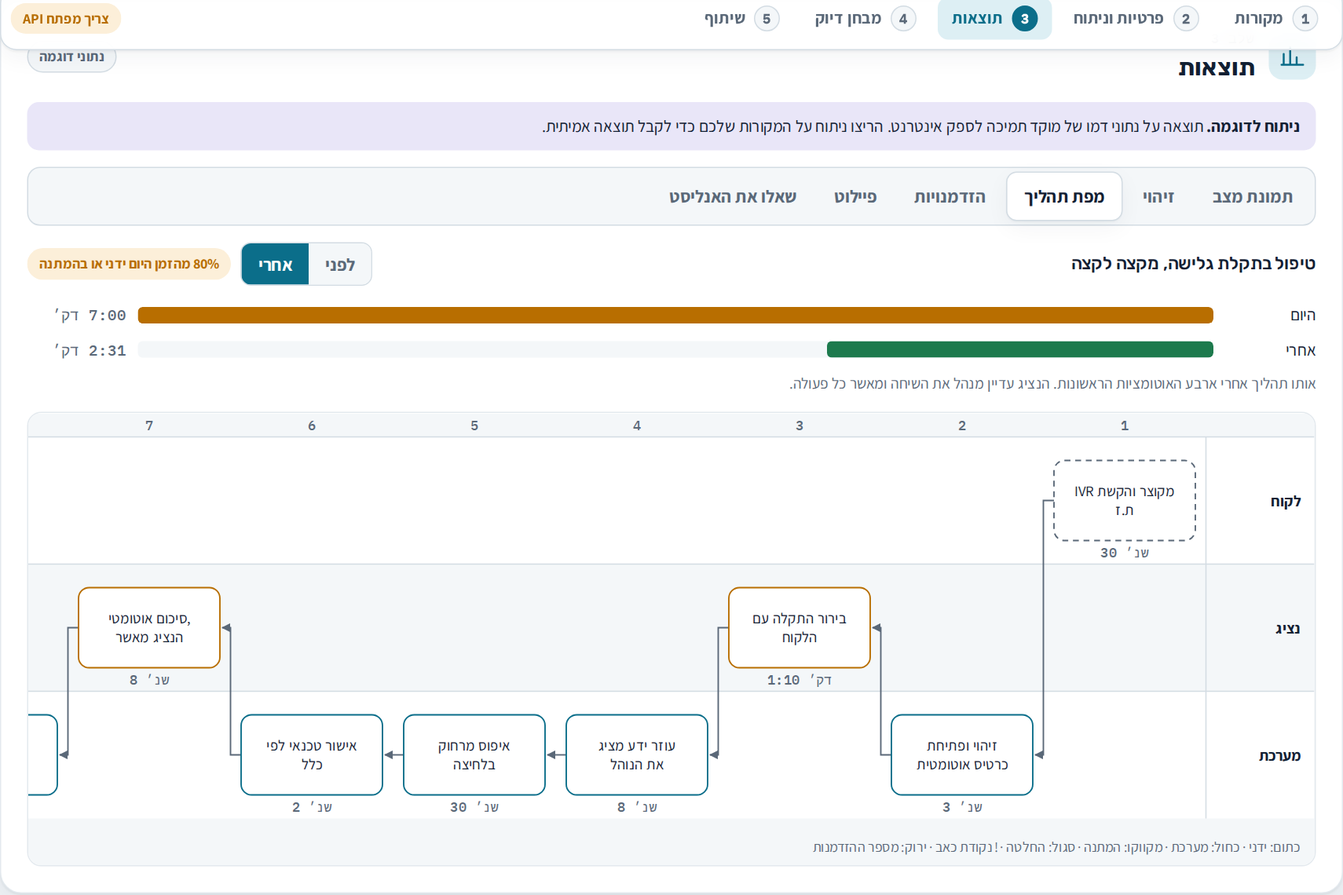
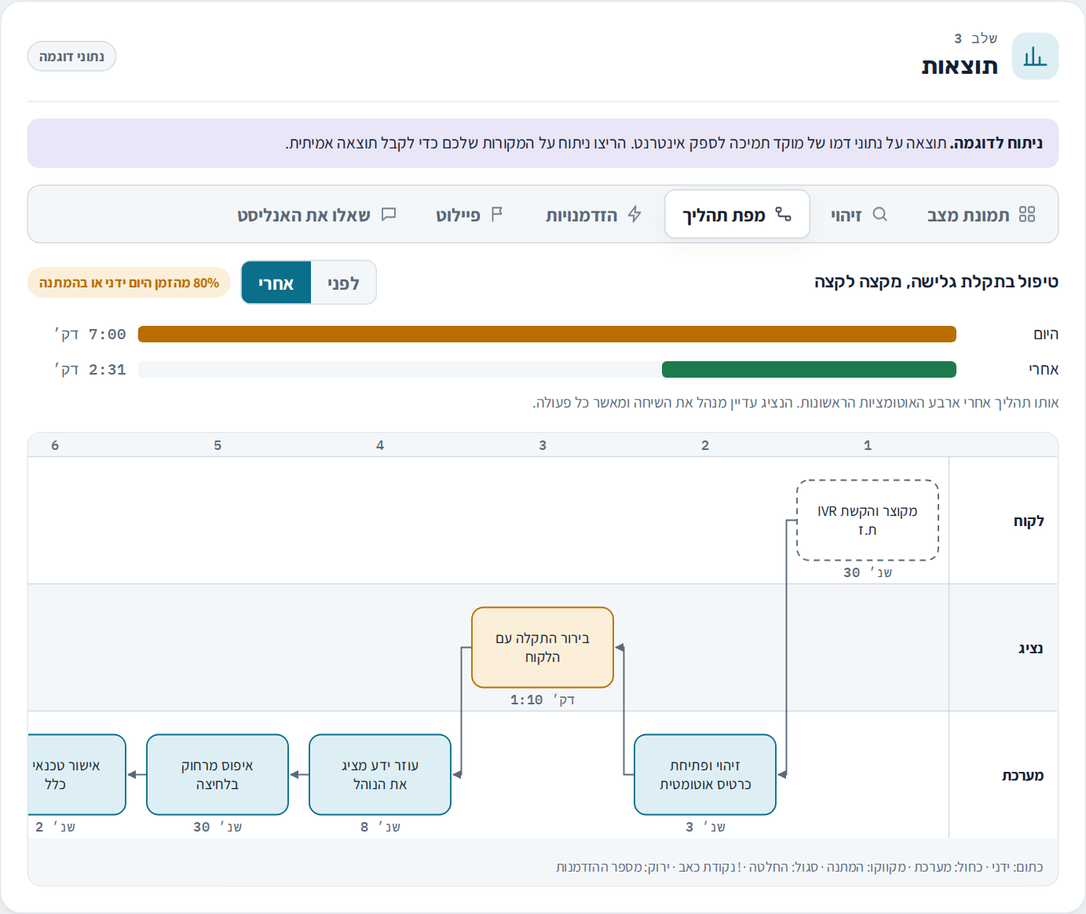
עיצוב מקצועי: מבנה אפליקציה עם סרגל צד, לוגו, אייקונים, הודעות קופצות ומפת תהליך צבעונית
Claude-Session: https://claude.ai/code/session_01NoNZGB2z2MiKGwQLPAJggP

diff --git a/index.html b/index.html
@@ -4,7 +4,7 @@
 <meta charset="utf-8">
 <meta name="viewport" content="width=device-width,initial-scale=1,viewport-fit=cover">
 <meta name="description" content="רנטגן למוקד: אבחון תהליכים ואיתור אוטומציות במוקדי שירות בעזרת Claude">
-<style>[hidden]{display:none!important}body{margin:0}img{max-width:100%}</style>
+<style>[hidden]{display:none!important}html,body{margin:0;height:100%}img{max-width:100%}</style>
 </head>
 <body>
 <title>רנטגן למוקד</title>
@@ -92,7 +92,7 @@ textarea{min-height:130px;resize:vertical;line-height:1.5}
 .msg.err{background:var(--crit-soft);border-color:transparent}
 .msg.ok{background:var(--good-soft);border-color:transparent}
 
-.profile{display:grid;grid-template-columns:1.4fr repeat(4,1fr);gap:10px}
+.profile{display:grid;grid-template-columns:1.9fr repeat(4,1fr);gap:10px}
 .src-tabs{display:flex;gap:4px;flex-wrap:wrap;border-bottom:1px solid var(--line)}
 .src-tabs button{border:0;background:none;padding:8px 12px;font-weight:700;color:var(--muted);cursor:pointer;border-bottom:2px solid transparent;margin-bottom:-1px}
 .src-tabs button[aria-selected="true"]{color:var(--accent);border-bottom-color:var(--accent)}
@@ -233,7 +233,7 @@ footer{font-size:12.5px;color:var(--muted);text-align:center;display:grid;gap:4p
   linear-gradient(90deg,rgba(255,255,255,.045) 1px,transparent 1px) 0 0/28px 28px}
 .hero .film{color:#7FD3E6}
 .hero .film i{background:repeating-linear-gradient(90deg,#7FD3E6 0 3px,transparent 3px 6px)}
-.hero h1{font-size:46px;line-height:1.05;margin-top:10px;color:#FFFFFF;letter-spacing:-.02em}
+.hero h1{font-size:40px;line-height:1.05;margin-top:10px;color:#FFFFFF;letter-spacing:-.02em}
 .hero h1 span{color:#7FD3E6}
 .hero p{color:#B6C6D5;max-width:60ch;margin-top:12px;font-size:15.5px}
 .hero .trust{margin-top:16px}
@@ -291,13 +291,74 @@ footer{font-size:12.5px;color:var(--muted);text-align:center;display:grid;gap:4p
 .cat-ic svg{width:14px;height:14px}
 @media (max-width:980px){.hero{grid-template-columns:1fr;padding:26px}.hero h1{font-size:36px}}
 @media (max-width:680px){.hero{padding:22px 18px;border-radius:16px}.hero h1{font-size:30px}.ro-main b{font-size:32px}.panel{padding:16px}}
+
+/* ===== v4 app shell ===== */
+body{font-size:15.5px;-webkit-font-smoothing:antialiased}
+.app{display:grid;grid-template-columns:262px minmax(0,1fr);min-height:100%}
+.side{position:sticky;top:0;height:100vh;height:100dvh;display:flex;flex-direction:column;gap:18px;padding:22px 16px calc(18px + env(safe-area-inset-bottom,0px));background:var(--surface);border-inline-start:1px solid var(--line-2);border-inline-end:1px solid var(--line-2);overflow-y:auto}
+.logo{display:flex;align-items:center;gap:10px;text-decoration:none;color:var(--ink);padding:0 6px}
+.logo .mark{width:38px;height:38px;border-radius:11px;display:grid;place-items:center;background:linear-gradient(145deg,#0B6E8A,#0A1520);box-shadow:inset 0 0 0 1px rgba(255,255,255,.12)}
+.logo b{font-family:"Rubik",sans-serif;font-size:18px;display:block;line-height:1.1}
+.logo small{font-size:11.5px;color:var(--muted);display:block}
+.side .navlabel{font-size:11px;font-weight:700;letter-spacing:.08em;color:var(--muted);padding:0 10px}
+.side nav{display:grid;gap:2px}
+.side nav a{display:flex;align-items:center;gap:10px;padding:9px 10px;border-radius:10px;text-decoration:none;color:var(--muted);font-weight:700;font-size:14.5px;position:relative}
+.side nav a svg{width:19px;height:19px;flex:none}
+.side nav a .n{margin-inline-start:auto;font-family:"IBM Plex Mono",monospace;font-size:11px;font-weight:500;opacity:.7}
+.side nav a:hover{background:var(--surface-2);color:var(--ink)}
+.side nav a.on{background:var(--accent-soft);color:var(--accent)}
+.side .card{margin-top:auto;border:1px solid var(--line-2);border-radius:12px;padding:12px;display:grid;gap:8px;background:var(--surface-2);font-size:12.5px;color:var(--muted)}
+.side .card b{color:var(--ink);font-size:13px}
+.side .card .chip{justify-self:start}
+.main{min-width:0}
+.main .wrap{max-width:1120px;padding-inline:28px;padding-block:24px 64px}
+.rtabs button{display:inline-flex;align-items:center;gap:7px}
+.rtabs button svg{width:16px;height:16px;opacity:.85}
+.toasts{position:fixed;bottom:calc(20px + env(safe-area-inset-bottom,0px));left:20px;z-index:50;display:grid;gap:8px;pointer-events:none}
+.toast{pointer-events:auto;display:flex;align-items:center;gap:10px;min-width:220px;max-width:360px;padding:11px 14px;border-radius:12px;background:#0F1B28;color:#E8F1F8;font-size:14px;box-shadow:0 10px 30px rgba(0,0,0,.25);animation:tin .25s ease-out}
+.toast i{width:8px;height:8px;border-radius:50%;background:#5CC990;flex:none}
+.toast.err i{background:#FF7C6D}
+@keyframes tin{from{transform:translateY(8px);opacity:0}to{transform:none;opacity:1}}
+@media (prefers-reduced-motion: reduce){.toast{animation:none}}
+.opp .roi{height:5px;border-radius:999px;background:var(--surface-2);overflow:hidden;margin-top:6px;width:120px}
+.opp .roi i{display:block;height:100%;background:var(--good);border-radius:999px}
+.panel{box-shadow:0 1px 2px rgba(18,32,51,.04),0 10px 30px -12px rgba(18,32,51,.10)}
+.panel > .phead{padding-bottom:14px;border-bottom:1px solid var(--line-2)}
+.kpi{background:linear-gradient(180deg,var(--surface),var(--surface-2))}
+@media (max-width:980px){
+  .app{grid-template-columns:1fr}
+  .side{position:sticky;top:0;z-index:30;height:auto;flex-direction:row;align-items:center;gap:10px;padding:10px 14px;padding-top:calc(10px + env(safe-area-inset-top,0px));border:0;border-bottom:1px solid var(--line-2);overflow-x:auto;scrollbar-width:none;background:color-mix(in srgb,var(--surface) 92%,transparent);backdrop-filter:blur(10px)}
+  .side::-webkit-scrollbar{display:none}
+  .side .navlabel,.side .card,.logo small{display:none}
+  .side nav{display:flex;gap:4px}
+  .side nav a{white-space:nowrap;padding:7px 10px;font-size:13.5px}
+  .side nav a .n{display:none}
+  .logo .mark{width:32px;height:32px}
+  .logo b{font-size:15px;white-space:nowrap}
+  .main .wrap{padding-inline:16px}
+  .toasts{left:12px;right:12px}
+}
 </style>
 
+<div class="app">
+<aside class="side" aria-label="ניווט">
+  <a class="logo" href="#top"><span class="mark"><svg width="22" height="22" viewBox="0 0 24 24" fill="none" stroke="#E8F1F8" stroke-width="1.8" stroke-linecap="round" aria-hidden="true"><path d="M5 13v-1a7 7 0 0 1 14 0v1"/><rect x="3.5" y="13" width="4" height="6" rx="1.5"/><rect x="16.5" y="13" width="4" height="6" rx="1.5"/><path d="M8 9.5h8" stroke="#7FD3E6" stroke-width="2.2"/></svg></span><span><b>רנטגן למוקד</b><small>Call Center X-Ray</small></span></a>
+  <span class="navlabel">תהליך העבודה</span>
+  <nav aria-label="שלבים">
+    <a href="#s-sources"><svg viewBox="0 0 24 24" fill="none" stroke="currentColor" stroke-width="1.8" stroke-linecap="round" stroke-linejoin="round" aria-hidden="true"><path d="M4 5h16v14H4z"/><path d="M8 9h8M8 13h8M8 17h5"/></svg>מקורות<span class="n">01</span></a>
+    <a href="#s-run"><svg viewBox="0 0 24 24" fill="none" stroke="currentColor" stroke-width="1.8" stroke-linecap="round" stroke-linejoin="round" aria-hidden="true"><path d="M12 3l8 3v6c0 5-3.5 8-8 9-4.5-1-8-4-8-9V6z"/><path d="M9 12l2 2 4-4"/></svg>פרטיות וניתוח<span class="n">02</span></a>
+    <a href="#s-results" class="on"><svg viewBox="0 0 24 24" fill="none" stroke="currentColor" stroke-width="1.8" stroke-linecap="round" stroke-linejoin="round" aria-hidden="true"><path d="M4 20V10M10 20V4M16 20v-7M22 20H2"/></svg>תוצאות<span class="n">03</span></a>
+    <a href="#s-eval"><svg viewBox="0 0 24 24" fill="none" stroke="currentColor" stroke-width="1.8" stroke-linecap="round" stroke-linejoin="round" aria-hidden="true"><circle cx="12" cy="12" r="8"/><circle cx="12" cy="12" r="4"/><circle cx="12" cy="12" r="1"/></svg>מבחן דיוק<span class="n">04</span></a>
+    <a href="#s-export"><svg viewBox="0 0 24 24" fill="none" stroke="currentColor" stroke-width="1.8" stroke-linecap="round" stroke-linejoin="round" aria-hidden="true"><path d="M12 3v12M7 10l5 5 5-5"/><path d="M4 17v3h16v-3"/></svg>שיתוף<span class="n">05</span></a>
+  </nav>
+  <div class="card"><b>מצב המערכת</b><span class="chip" id="ai-status">בודק חיבור…</span><span>פרטים מזהים מוסתרים בדפדפן לפני כל שליחה.</span></div>
+</aside>
+<main class="main" id="top">
 <div class="wrap">
   <header class="hero">
     <div>
       <span class="film"><i></i>אבחון תהליכים מבוסס AI · מוקדי שירות ומכירות</span>
-      <h1>רנטגן <span>למוקד</span></h1>
+      <h1>מה באמת קורה בשיחות,<br><span>ואיפה AI יחסוך הכי הרבה</span></h1>
       <p>מכניסים תמלולי שיחות, נהלים והערות מישיבה ליד נציגים. הכלי מסתיר פרטים מזהים, Claude משרטט את התהליך כפי שהוא קורה בפועל, וכל ממצא מגיע עם ציטוט שנבדק מול המקור. בסוף: איפה אוטומציה ו-AI יחסכו הכי הרבה, בשקלים, ותוכנית פיילוט.</p>
       <div class="trust" aria-label="עקרונות">
         <span class="chip">פרטים מזהים מוסתרים לפני שליחה</span>
@@ -307,15 +368,7 @@ footer{font-size:12.5px;color:var(--muted);text-align:center;display:grid;gap:4p
     </div>
     <div class="readout" aria-live="polite" id="readout"></div>
   </header>
-  <nav class="navbar" aria-label="שלבים">
-    <a href="#s-sources"><i>1</i>מקורות</a>
-    <a href="#s-run"><i>2</i>פרטיות וניתוח</a>
-    <a href="#s-results" class="on"><i>3</i>תוצאות</a>
-    <a href="#s-eval"><i>4</i>מבחן דיוק</a>
-    <a href="#s-export"><i>5</i>שיתוף</a>
-    <span class="spacer"></span>
-    <span class="chip" id="ai-status">בודק חיבור…</span>
-  </nav>
+
 
   <!-- 1. SOURCES -->
   <section class="panel" id="s-sources" aria-labelledby="h-src">
@@ -432,12 +485,12 @@ footer{font-size:12.5px;color:var(--muted);text-align:center;display:grid;gap:4p
     <div class="phead"><div class="shead"><span class="ico" aria-hidden="true"><svg viewBox="0 0 24 24" fill="none" stroke="currentColor" stroke-width="1.8" stroke-linecap="round" stroke-linejoin="round"><path d="M4 20V10M10 20V4M16 20v-7M22 20H2"/></svg></span><div><span class="num">שלב 3</span><h2 id="h-res">תוצאות</h2></div></div><span class="chip" id="res-when"></span></div>
     <div class="banner" id="demo-banner"><span><b>ניתוח לדוגמה.</b> תוצאה על נתוני דמו של מוקד תמיכה לספק אינטרנט. הריצו ניתוח על המקורות שלכם כדי לקבל תוצאה אמיתית.</span></div>
     <div class="rtabs" role="tablist" aria-label="תוצאות">
-      <button role="tab" data-r="sum" aria-selected="true">תמונת מצב</button>
-      <button role="tab" data-r="det" aria-selected="false">זיהוי</button>
-      <button role="tab" data-r="proc" aria-selected="false">מפת תהליך</button>
-      <button role="tab" data-r="opp" aria-selected="false">הזדמנויות</button>
-      <button role="tab" data-r="pilot" aria-selected="false">פיילוט</button>
-      <button role="tab" data-r="chat" aria-selected="false">שאלו את האנליסט</button>
+      <button role="tab" data-r="sum" aria-selected="true"><svg viewBox="0 0 24 24" fill="none" stroke="currentColor" stroke-width="1.8" stroke-linecap="round" stroke-linejoin="round" aria-hidden="true"><rect x="3" y="3" width="7" height="7" rx="1.5"/><rect x="14" y="3" width="7" height="7" rx="1.5"/><rect x="3" y="14" width="7" height="7" rx="1.5"/><rect x="14" y="14" width="7" height="7" rx="1.5"/></svg>תמונת מצב</button>
+      <button role="tab" data-r="det" aria-selected="false"><svg viewBox="0 0 24 24" fill="none" stroke="currentColor" stroke-width="1.8" stroke-linecap="round" stroke-linejoin="round" aria-hidden="true"><circle cx="11" cy="11" r="7"/><path d="M20 20l-4-4"/></svg>זיהוי</button>
+      <button role="tab" data-r="proc" aria-selected="false"><svg viewBox="0 0 24 24" fill="none" stroke="currentColor" stroke-width="1.8" stroke-linecap="round" stroke-linejoin="round" aria-hidden="true"><rect x="3" y="4" width="6" height="5" rx="1.5"/><rect x="15" y="15" width="6" height="5" rx="1.5"/><path d="M6 9v4a2 2 0 0 0 2 2h7"/></svg>מפת תהליך</button>
+      <button role="tab" data-r="opp" aria-selected="false"><svg viewBox="0 0 24 24" fill="none" stroke="currentColor" stroke-width="1.8" stroke-linecap="round" stroke-linejoin="round" aria-hidden="true"><path d="M13 2L4 14h7l-1 8 9-12h-7z"/></svg>הזדמנויות</button>
+      <button role="tab" data-r="pilot" aria-selected="false"><svg viewBox="0 0 24 24" fill="none" stroke="currentColor" stroke-width="1.8" stroke-linecap="round" stroke-linejoin="round" aria-hidden="true"><path d="M5 21V4M5 4h11l-2 4 2 4H5"/></svg>פיילוט</button>
+      <button role="tab" data-r="chat" aria-selected="false"><svg viewBox="0 0 24 24" fill="none" stroke="currentColor" stroke-width="1.8" stroke-linecap="round" stroke-linejoin="round" aria-hidden="true"><path d="M4 5h16v11H9l-5 4z"/></svg>שאלו את האנליסט</button>
     </div>
     <div data-rp="sum" id="r-sum"></div>
     <div data-rp="det" id="r-det" hidden></div>
@@ -510,6 +563,9 @@ footer{font-size:12.5px;color:var(--muted);text-align:center;display:grid;gap:4p
     <span>נתוני הדוגמה בדויים. המספרים הם הערכות מתוך המקורות שנותחו, לא התחייבות.</span>
   </footer>
 </div>
+</main>
+</div>
+<div class="toasts" id="toasts" aria-live="polite"></div>
 
 <script>
 /* ================= demo data (fictional) ================= */
@@ -620,6 +676,7 @@ const EVAL_BUILTIN = [
 ];
 
 /* ================= helpers & state ================= */
+function toast(msg, kind){ const box = document.getElementById('toasts'); if(!box || !msg) return; const t = document.createElement('div'); t.className = 'toast' + (kind === 'err' ? ' err' : ''); t.innerHTML = '<i></i><span></span>'; t.lastChild.textContent = msg; box.append(t); setTimeout(() => t.remove(), 3800); }
 const $ = id => document.getElementById(id);
 const esc = s => String(s ?? '').replace(/[&<>"']/g, c => ({'&':'&amp;','<':'&lt;','>':'&gt;','"':'&quot;',"'":'&#39;'}[c]));
 const nf = new Intl.NumberFormat('he-IL');
@@ -695,6 +752,7 @@ function roi(o){ const p = profile(), calls = p.calls * (+o.affected_calls_pct |
 function totals(a){ let hrs = 0, ils = 0; (a.opportunities||[]).forEach(o => { const r = roi(o); hrs += r.hrs; ils += r.ils; }); const p = profile(), totalHrs = p.calls * p.aht / 60; return { hrs, ils, share: totalHrs ? hrs / totalHrs : 0, fte: hrs / 182 }; }
 const ils = v => '₪' + nf.format(Math.round(v));
 function fmtSec(s){ s = Math.round(+s||0); if(!s) return '–'; const m = Math.floor(s/60), r = s%60; return m ? `${m}:${String(r).padStart(2,'0')} דק׳` : `${r} שנ׳`; }
+const clock = s => { s = Math.round(+s||0); return `${Math.floor(s/60)}:${String(s%60).padStart(2,'0')}`; };
 const sumSec = steps => (steps||[]).reduce((n,s) => n + (+s.duration_sec||0), 0);
 
 /* ================= sources ================= */
@@ -881,7 +939,7 @@ $('run').onclick = async () => {
       onText: ({text}) => { const ph = $('run-phase'); if(ph) ph.textContent = `כותב את האבחון… ${nf.format(text.length)} תווים`; const s = $('run-stream'); if(s) s.textContent = text.slice(-400); } });
     state.analysis = validate(a); state.sent = prep.list; state.isDemo = false; state.when = new Date().toISOString(); state.chat = [];
     saveLocal(); renderResults();
-    const v = verifyAll(state.analysis);
+    const v = verifyAll(state.analysis); toast('הניתוח הושלם');
     $('run-state').innerHTML = `<div class="msg ok">הניתוח הושלם ב-${Math.round((Date.now()-t0)/1000)} שניות. ${v.total ? `${v.ok} מתוך ${v.total} ציטוטים נמצאו במקור מילה במילה.` : ''}</div>`;
     $('s-results').scrollIntoView({behavior: matchMedia('(prefers-reduced-motion: reduce)').matches ? 'auto' : 'smooth'});
   }catch(e){
@@ -924,7 +982,7 @@ function renderReadout(a){
   $('readout').innerHTML = `<div class="rh"><span>קריאה מהניתוח</span><span class="live">${state.isDemo ? 'נתוני דוגמה' : 'ניתוח אחרון'}</span></div>
     <div class="ro-main"><b class="mono">${ils(t.ils)}</b><span>חיסכון אפשרי בחודש · ${nf.format(Math.round(t.hrs))} שעות נציג</span></div>
     ${af ? `<div class="ro-bars"><div><span>היום</span><i style="width:100%;background:#F0A73A"></i></div><div><span>אחרי</span><i style="width:${Math.round(af/mx*100)}%;background:#5CC990"></i></div></div>` : ''}
-    <div class="ro-row"><div><b>${af ? fmtSec(b)+' ← '+fmtSec(af) : fmtSec(b)}</b><span>זמן בתהליך המרכזי</span></div><div><b>${v.ok}/${v.total}</b><span>ציטוטים שאומתו במקור</span></div></div>`;
+    <div class="ro-row"><div><b class="mono">${af ? clock(b)+' ← '+clock(af) : clock(b)}</b><span>דקות בתהליך המרכזי</span></div><div><b>${v.ok}/${v.total}</b><span>ציטוטים שאומתו במקור</span></div></div>`;
 }
 function renderResults(){
   const a = state.analysis; renderReadout(a);
@@ -940,7 +998,7 @@ function renderSum(a){
     <p class="lead">${esc(a.summary)}</p>
     <div class="kpis">
       <div class="kpi"><span class="ic" aria-hidden="true"><svg viewBox="0 0 24 24" fill="none" stroke="currentColor" stroke-width="1.8" stroke-linecap="round" stroke-linejoin="round"><path d="M3 7h18v10H3z"/><circle cx="12" cy="12" r="2.5"/></svg></span><span class="label">חיסכון אפשרי בחודש</span><span class="n good mono">${ils(t.ils)}</span><span class="d">${nf.format(Math.round(t.hrs))} שעות נציג · ${t.fte.toFixed(1)} משרות</span></div>
-      <div class="kpi"><span class="ic" aria-hidden="true"><svg viewBox="0 0 24 24" fill="none" stroke="currentColor" stroke-width="1.8" stroke-linecap="round" stroke-linejoin="round"><circle cx="12" cy="12" r="8"/><path d="M12 8v4l3 2"/></svg></span><span class="label">זמן בתהליך המרכזי</span><span class="n mono">${af ? fmtSec(b) + ' ← ' + fmtSec(af) : fmtSec(b)}</span><span class="d">${af && b ? `${Math.round((1-af/b)*100)}% פחות אחרי האוטומציות` : 'לפני האוטומציות'}</span></div>
+      <div class="kpi"><span class="ic" aria-hidden="true"><svg viewBox="0 0 24 24" fill="none" stroke="currentColor" stroke-width="1.8" stroke-linecap="round" stroke-linejoin="round"><circle cx="12" cy="12" r="8"/><path d="M12 8v4l3 2"/></svg></span><span class="label">דקות בתהליך המרכזי</span><span class="n mono">${af ? clock(b) + ' ← ' + clock(af) : clock(b)}</span><span class="d">${af && b ? `${Math.round((1-af/b)*100)}% פחות אחרי האוטומציות` : 'לפני האוטומציות'}</span></div>
       <div class="kpi"><span class="ic" aria-hidden="true"><svg viewBox="0 0 24 24" fill="none" stroke="currentColor" stroke-width="1.8" stroke-linecap="round" stroke-linejoin="round"><path d="M9 18h6M10 21h4"/><path d="M12 3a6 6 0 0 0-3.5 10.9V16h7v-2.1A6 6 0 0 0 12 3z"/></svg></span><span class="label">הזדמנויות שזוהו</span><span class="n mono">${a.opportunities.length}</span><span class="d">${a.opportunities.filter(o=>o.effort<=2&&o.impact>=4).length} מהן ניצחונות מהירים</span></div>
       <div class="kpi"><span class="ic" aria-hidden="true"><svg viewBox="0 0 24 24" fill="none" stroke="currentColor" stroke-width="1.8" stroke-linecap="round" stroke-linejoin="round"><path d="M4 12l5 5L20 6"/></svg></span><span class="label">ציטוטים שאומתו במקור</span><span class="n mono ${v.total && v.ok===v.total?'good':''}">${v.ok}/${v.total}</span><span class="d">כל ממצא נבדק מול הטקסט</span></div>
     </div>
@@ -991,6 +1049,7 @@ function laneSvg(steps, oppByStep, label){
   const W = labelW + steps.length * colW + 20, H = top + actors.length * laneH + 40;
   const X = i => W - labelW - (i + 0.5) * colW, Y = act => top + actors.indexOf(act || 'נציג') * laneH + laneH/2;
   const col = { manual:'var(--amber)', system:'var(--accent)', wait:'var(--muted)', decision:'var(--violet)' };
+  const fillc = { manual:'var(--amber-soft)', system:'var(--accent-soft)', wait:'var(--surface)', decision:'var(--violet-soft)' };
   let g = '';
   actors.forEach((act, k) => { const y = top + k*laneH;
     g += `<rect x="0" y="${y}" width="${W}" height="${laneH}" fill="${k%2?'var(--surface-2)':'var(--surface)'}"/><text x="${W-12}" y="${y+laneH/2+5}" text-anchor="end" font-size="13" font-weight="700" fill="var(--ink)">${esc(act)}</text><line x1="0" x2="${W}" y1="${y}" y2="${y}" stroke="var(--line)"/>`; });
@@ -998,7 +1057,7 @@ function laneSvg(steps, oppByStep, label){
   for(let i=1;i<steps.length;i++){ const x1 = X(i-1)-bw/2, y1 = Y(steps[i-1].actor), x2 = X(i)+bw/2, y2 = Y(steps[i].actor), mx = (x1+x2)/2;
     g += `<path d="M${x1} ${y1} H${mx} V${y2} H${x2+2}" fill="none" stroke="var(--muted)" stroke-width="1.25" marker-end="url(#ar)"/>`; }
   steps.forEach((s,i) => { const x = X(i), y = Y(s.actor), c = col[s.type] || 'var(--muted)', lines = wrapText(s.title, 15);
-    g += `<rect x="${x-bw/2}" y="${y-bh/2}" width="${bw}" height="${bh}" rx="${s.type==='decision'?20:9}" fill="var(--surface)" stroke="${c}" stroke-width="${s.pain?2:1.25}" ${s.type==='wait'?'stroke-dasharray="5 4"':''}/>`;
+    g += `<rect x="${x-bw/2}" y="${y-bh/2}" width="${bw}" height="${bh}" rx="${s.type==='decision'?20:10}" fill="${fillc[s.type]||'var(--surface)'}" stroke="${c}" stroke-width="${s.pain?2:1.25}" ${s.type==='wait'?'stroke-dasharray="5 4"':''}/>`;
     lines.forEach((l,j) => g += `<text x="${x}" y="${y - (lines.length-1)*8 + j*16 + 4}" text-anchor="middle" font-size="12.5" fill="var(--ink)">${esc(l)}</text>`);
     if(+s.duration_sec) g += `<text x="${x}" y="${y+bh/2+14}" text-anchor="middle" font-size="11" font-family="IBM Plex Mono,monospace" fill="var(--muted)">${fmtSec(s.duration_sec)}</text>`;
     if(s.pain) g += `<circle cx="${x+bw/2-6}" cy="${y-bh/2+6}" r="9" fill="var(--crit)"/><text x="${x+bw/2-6}" y="${y-bh/2+10}" text-anchor="middle" font-size="12" font-weight="700" fill="#fff">!</text>`;
@@ -1047,7 +1106,7 @@ function matrix(a){
   return `<svg viewBox="0 0 ${W} ${H}" width="100%" style="max-width:${W}px;display:block;margin-inline:auto" role="img" aria-label="מטריצת השפעה מול מאמץ" direction="ltr">${g}</svg>`;
 }
 function renderOpp(a){
-  const list = a.opportunities.map((o,i) => ({o, i, r: roi(o)}));
+  const list = a.opportunities.map((o,i) => ({o, i, r: roi(o)})), maxIls = Math.max(1, ...list.map(x => x.r.ils));
   const sorted = [...list].sort((x,y) => sortBy==='money' ? y.r.ils - x.r.ils : sortBy==='quick' ? (y.o.impact - y.o.effort) - (x.o.impact - x.o.effort) : x.i - y.i);
   $('r-opp').innerHTML = `<div style="display:grid;gap:16px">
     <div class="grid2" style="align-items:center">
@@ -1060,7 +1119,7 @@ function renderOpp(a){
     </div>
     <div class="opps">${sorted.map(({o,i,r}) => `<details class="opp"${i===0?' open':''}>
       <summary><span class="idx">${i+1}</span><span style="display:grid;gap:4px"><b>${esc(o.title)}</b><span class="row small"><span class="chip ${CAT[o.category]||''}">${esc(o.category||'')}</span><span class="muted">השפעה ${dots(o.impact)}</span><span class="muted">מאמץ ${dots(o.effort)}</span><span class="muted">ודאות ${esc(o.confidence||'–')}</span></span></span>
-      <span class="money">${r.ils ? ils(r.ils) : '—'}<small>${r.ils ? nf.format(Math.round(r.hrs)) + ' שעות בחודש' : 'מחוץ לזמן שיחה'}</small></span></summary>
+      <span class="money">${r.ils ? ils(r.ils) : '—'}<small>${r.ils ? nf.format(Math.round(r.hrs)) + ' שעות בחודש' : 'מחוץ לזמן שיחה'}</small><span class="roi" aria-hidden="true"><i style="width:${Math.round(r.ils/maxIls*100)}%"></i></span></span></summary>
       <div class="body">
         <p>${esc(o.description)}</p>
         <div class="grid2" style="align-items:start">
@@ -1225,15 +1284,15 @@ ${a.pilot ? `<h2>פיילוט מוצע: ${esc(a.pilot.title)}</h2>${arr(a.pilot.
 }
 async function save(filename, data, el, mime){
   if(caps.downloads){
-    try{ await caps.downloads.save({filename, data}); el.textContent = 'נשמר.'; }
+    try{ await caps.downloads.save({filename, data}); el.textContent = 'נשמר.'; toast('הקובץ נשמר'); }
     catch(e){ el.textContent = e.code === 'declined' ? 'ההורדה בוטלה.' : e.code === 'rate_limited' ? 'חלון הורדה כבר פתוח.' : 'ההורדה לא זמינה כאן.'; }
     return;
   }
   if(INSIDE_CLAUDE){ el.textContent = 'ההורדה לא זמינה בתצוגה הזו.'; return; }
-  try{ const u = URL.createObjectURL(new Blob([data], {type: (mime || 'text/plain') + ';charset=utf-8'})); const l = document.createElement('a'); l.href = u; l.download = filename; document.body.append(l); l.click(); l.remove(); setTimeout(() => URL.revokeObjectURL(u), 2000); el.textContent = 'הקובץ ירד.'; }
+  try{ const u = URL.createObjectURL(new Blob([data], {type: (mime || 'text/plain') + ';charset=utf-8'})); const l = document.createElement('a'); l.href = u; l.download = filename; document.body.append(l); l.click(); l.remove(); setTimeout(() => URL.revokeObjectURL(u), 2000); el.textContent = 'הקובץ ירד.'; toast('הקובץ ירד'); }
   catch(e){ el.textContent = 'ההורדה לא זמינה כאן.'; }
 }
-function copy(text, el){ try{ navigator.clipboard.writeText(text).then(() => el.textContent = 'הועתק.', () => el.textContent = 'לא ניתן להעתיק כאן.'); }catch(e){ el.textContent = 'לא ניתן להעתיק כאן.'; } }
+function copy(text, el){ try{ navigator.clipboard.writeText(text).then(() => { el.textContent = 'הועתק.'; toast('הועתק ללוח'); }, () => el.textContent = 'לא ניתן להעתיק כאן.'); }catch(e){ el.textContent = 'לא ניתן להעתיק כאן.'; } }
 const stamp = () => new Date().toISOString().slice(0,10);
 $('dl-exec').onclick = () => save(`דוח-מנהלים-${stamp()}.html`, execReport(), $('exec-status'), 'text/html');
 $('dl-md').onclick = () => save(`רנטגן-למוקד-${stamp()}.md`, mdReport(), $('dl-status'), 'text/markdown');
@@ -1245,7 +1304,7 @@ $('to-drive').onclick = async () => {
   try{
     const res = await caps.mcp.callTool('Google Drive','create_file',{title:`רנטגן למוקד · ${stamp()}`, textContent: mdReport(), contentMimeType:'text/markdown'});
     const f = res.payload || {}; const url = f.viewUrl || f.webViewLink || '';
-    st.innerHTML = url ? `נשמר. <a href="${esc(url)}" target="_blank" rel="noopener">פתיחת המסמך</a>` : 'נשמר ב-Drive.';
+    toast('הדוח נשמר ב-Google Drive'); st.innerHTML = url ? `נשמר. <a href="${esc(url)}" target="_blank" rel="noopener">פתיחת המסמך</a>` : 'נשמר ב-Drive.';
   }catch(e){ st.textContent = mcpMessage(e, 'Google Drive'); }
   finally{ b.disabled = false; }
 };
@@ -1260,14 +1319,14 @@ $('to-gmail').onclick = async () => {
   try{
     const input = {subject:'אבחון תהליכים ואוטומציה במוקד', htmlBody: html, body: text}; if(to) input.to = [to];
     const res = await caps.mcp.callTool('Gmail','create_draft', input);
-    const d = res.payload || {}; st.innerHTML = d.viewUrl ? `הטיוטה מוכנה. <a href="${esc(d.viewUrl)}" target="_blank" rel="noopener">פתיחה ב-Gmail</a>` : 'הטיוטה מוכנה ב-Gmail.';
+    toast('טיוטת המייל מוכנה ב-Gmail'); const d = res.payload || {}; st.innerHTML = d.viewUrl ? `הטיוטה מוכנה. <a href="${esc(d.viewUrl)}" target="_blank" rel="noopener">פתיחה ב-Gmail</a>` : 'הטיוטה מוכנה ב-Gmail.';
   }catch(e){ st.textContent = mcpMessage(e, 'Gmail'); }
   finally{ b.disabled = false; }
 };
 
 /* ================= nav & boot ================= */
 const secIds = ['s-sources','s-run','s-results','s-eval','s-export'];
-if('IntersectionObserver' in window){ const io = new IntersectionObserver(es => es.forEach(en => { if(en.isIntersecting){ const k = secIds.indexOf(en.target.id); document.querySelectorAll('.navbar a').forEach((a,i) => a.classList.toggle('on', i===k)); } }), {rootMargin:'-40% 0px -55% 0px'}); secIds.forEach(id => io.observe($(id))); }
+if('IntersectionObserver' in window){ const io = new IntersectionObserver(es => es.forEach(en => { if(en.isIntersecting){ const k = secIds.indexOf(en.target.id); document.querySelectorAll('.side nav a').forEach((a,i) => a.classList.toggle('on', i===k)); } }), {rootMargin:'-40% 0px -55% 0px'}); secIds.forEach(id => io.observe($(id))); }
 ['p-calls','p-aht','p-cost','p-agents','p-type'].forEach(id => $(id).addEventListener('input', () => { renderReadout(state.analysis); renderSum(state.analysis); renderOpp(state.analysis); saveLocal(); }));
 function setAiStatus(){
   const el = $('ai-status');
